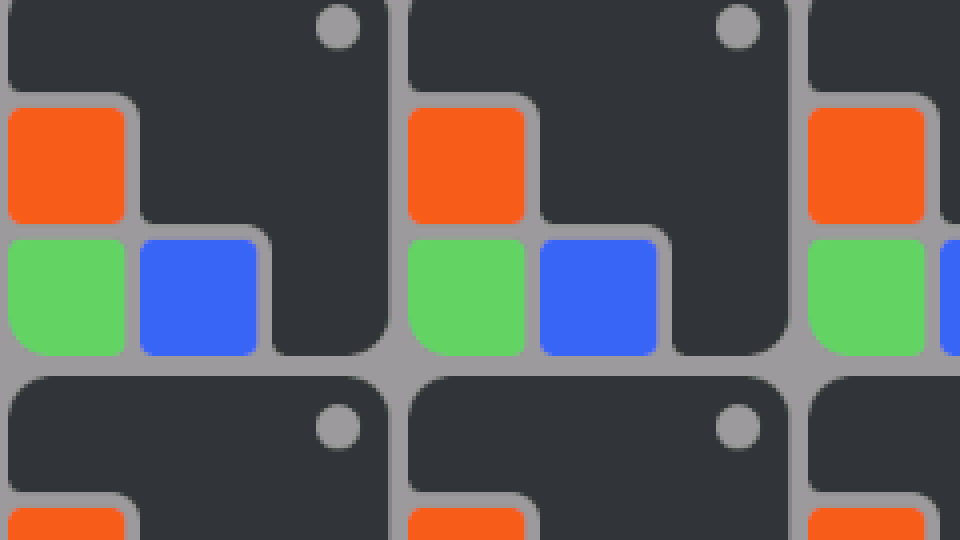
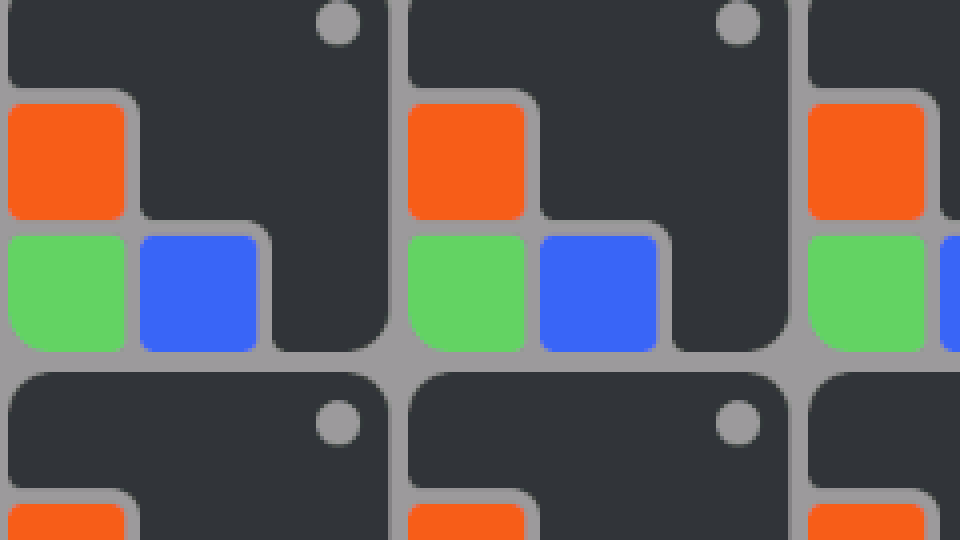
docs: refresh README screenshot via locally-built QEMU 9.2.2
Re-captured docs/screenshot.png end-to-end through the Day-14 locally-built
qemu-system-xtensa (Apple Clang 14, macOS 12) to prove the new pipeline
produces a real LVGL frame. README now calls out the local-build fallback
for hosts where the IDF-managed qemu-xtensa won't run.

Verification: tools/run-qemu.sh 150 verify -> 10/10 checks; pytest -q -> 41/41.

diff --git a/README.md b/README.md
@@ -53,6 +53,12 @@ python3 $IDF_PATH/tools/idf_tools.py install qemu-xtensa
 . $IDF_PATH/export.sh                   # makes idf.py + qemu-system-xtensa visible
 ```
 
+> **macOS 12 (Monterey)?** The IDF-managed `qemu-xtensa` binary requires macOS
+> 13+. Build QEMU 9.2.2 locally instead — `bash tools/build-qemu.sh` patches
+> meson for Apple Clang 14 and produces `tools/qemu-src/build/qemu-system-xtensa`,
+> which `tools/run-qemu.sh` picks up automatically. The screenshot above was
+> captured end-to-end through this locally-built binary.
+
 ### Project Python environment
 
 ```bash
